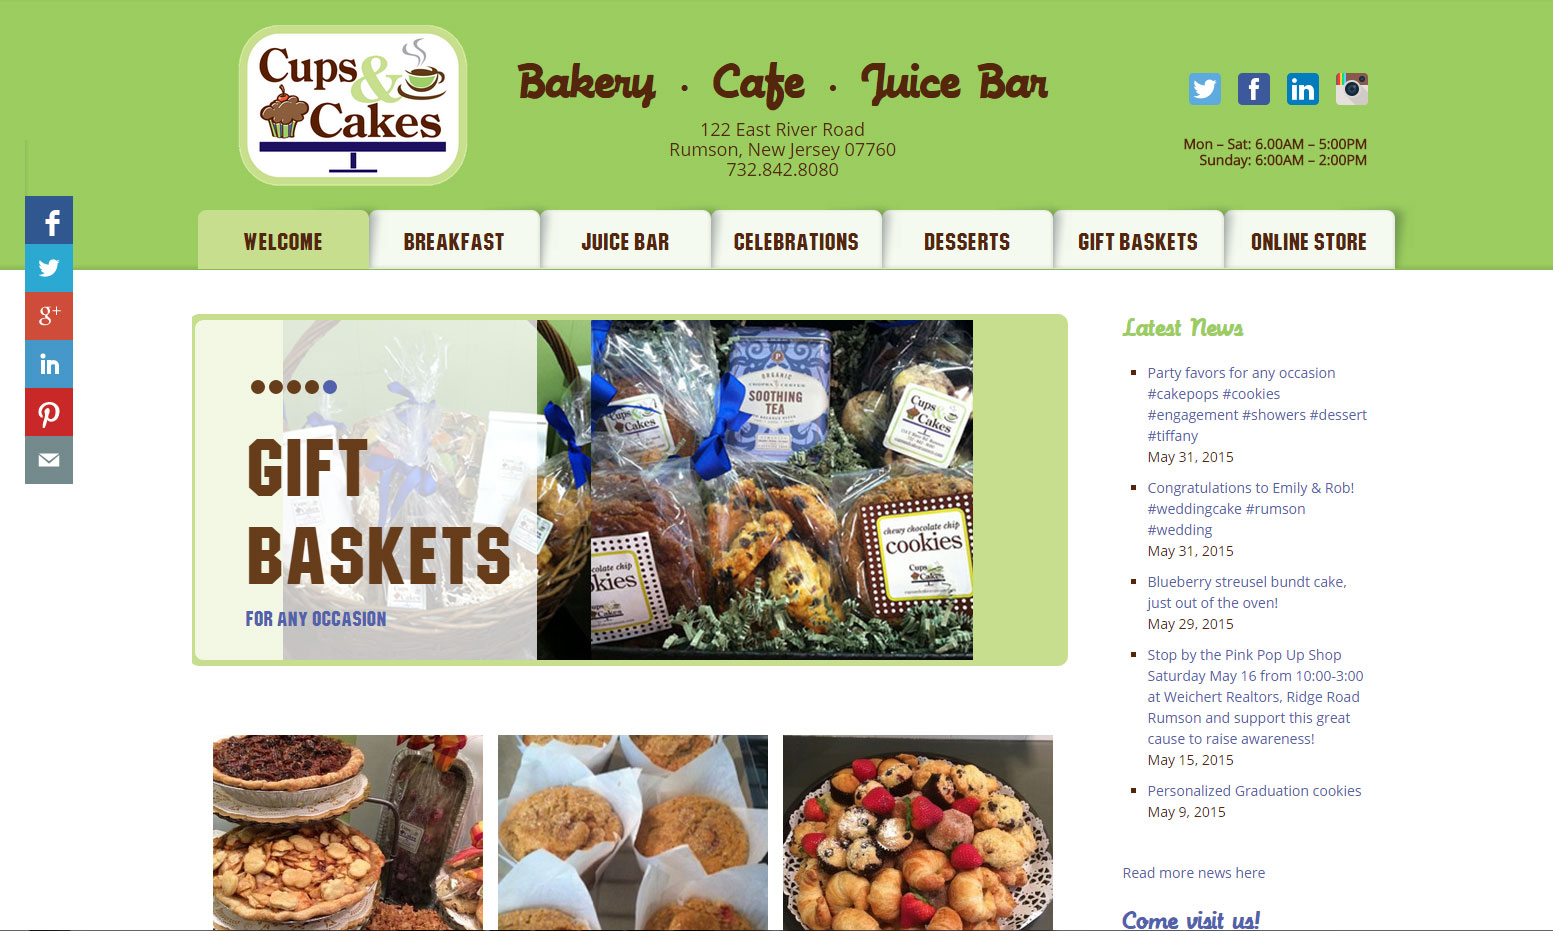
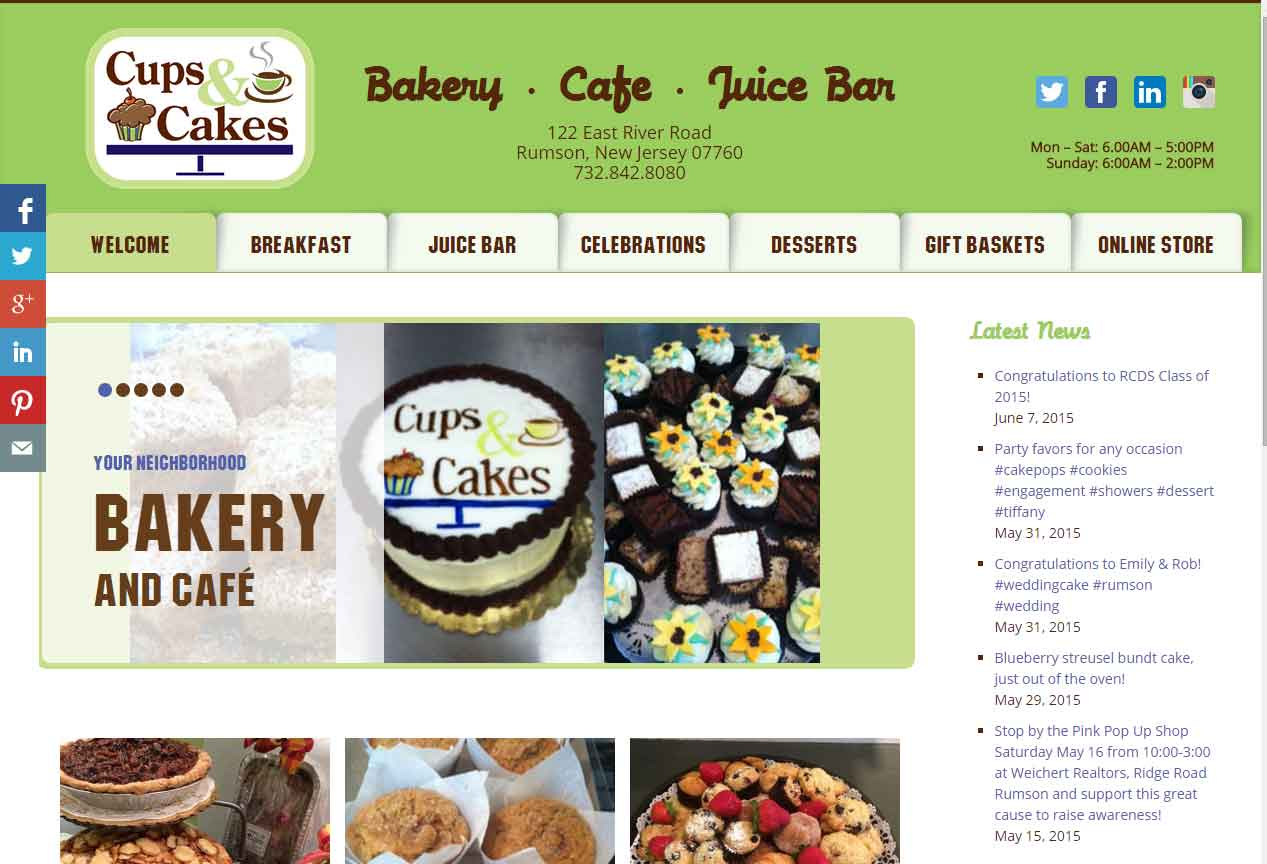
Change project images

diff --git a/js/resumeBuilder.js b/js/resumeBuilder.js
@@ -68,21 +68,21 @@ var projects =  {
 			"title" : "Cozmeena Enlightened Living",
 			"dates" : "2013 - present",
 			"description" : "Developed website and on-line store for the Cozmeena lifestyle brand using WordPress CMS. Project involved creating several custom post types, major re-tooling of the site theme and integration of Woocommerce",
-			"images" : [ "images/cozmeena/cozmeena-screenshot.png", "images/cozmeena/cozmeena-hand.jpg", "images/cozmeena/cozmeena-group.jpg", "images/cozmeena/pocket-hearts.jpg" ],
+			"images" : [ "images/cozmeena/cozmeena-screen-shot.jpg", "images/cozmeena/cozmeena-hand.jpg", "images/cozmeena/cozmeena-group.jpg", "images/cozmeena/pocket-hearts.jpg" ],
 			"url" : "http://cozmeena.com/"
 		},
 		{
 			"title" : "Cups and Cakes Bakery",
 			"dates" : "2014 - 2015",
 			"description" : "Redesigned website using WordPress CMS.  Reformatted pages, added images, redesigned menu and added social media links",
-			"images" : [ "images/cups/cups-screenshot.jpg", "images/cups/juices.jpg", "images/cups/fruit-tart.jpg", "images/cups/blueberry-scones.jpg", "images/cups/birthday.png",   "images/cups/sweet-potato-bread.jpg"],
+			"images" : [ "images/cups/cups-screenshot.jpg", "images/cups/fruit-tart.jpg", "images/cups/blueberry-scones.jpg", "images/cups/birthday.jpg"],
 			"url" : "http://cupsandcakesrumson.com/"
 		},
 		{
 			"title" : "HMF Express",
 			"dates" : "2014 - present",
 			"description" : "Designed new website using WordPres CMS to highlight product customization, product quality and shipping speed.  Incorporated company's quirky personality and commitment to customer service in design",
-			"images" : [ "images/hmf/hmf-screenshot.png", "images/hmf/wood-dale.jpg", "images/hmf/welding-table.jpg", "images/hmf/people.jpg", "images/hmf/hinge-welder.jpg"],
+			"images" : [ "images/hmf/hmf-screenshot.jpg", "images/hmf/wood-dale.jpg", "images/hmf/people.jpg", "images/hmf/hinge-welder.jpg"],
 			"url" : "http://wp.hmfexpress.s463.sureserver.com/"
 		}
 	]
@@ -324,5 +324,5 @@ $('#mapDiv').append(googleMap);
 // Add button to internationalize name
 $('#main').append(internationalizeButton);
 
-// TODO:  add lightbox to projects: http://lokeshdhakar.com/projects/lightbox2/ 
+// TODO:  fix url links
 // TODO: optimize images

diff --git a/css/style.css b/css/style.css
@@ -106,7 +106,7 @@ header {
   background-color: #89a38d;
   color:  #d6e7c9;
   font: bold 24px/36px 'PT sans', serif;
-  padding: 20px 0;
+  padding: 10px 0;
   text-align: center;
 }
 
